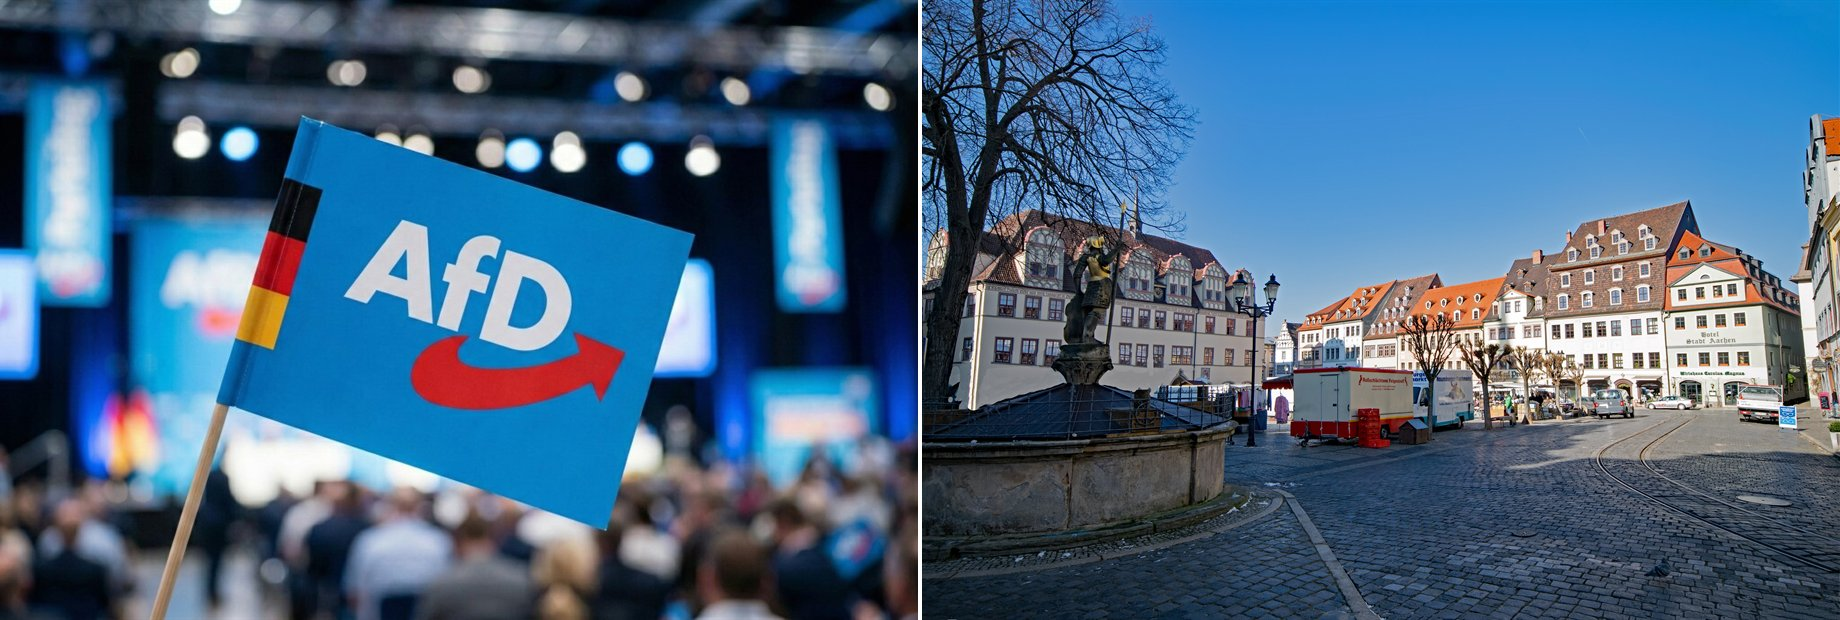
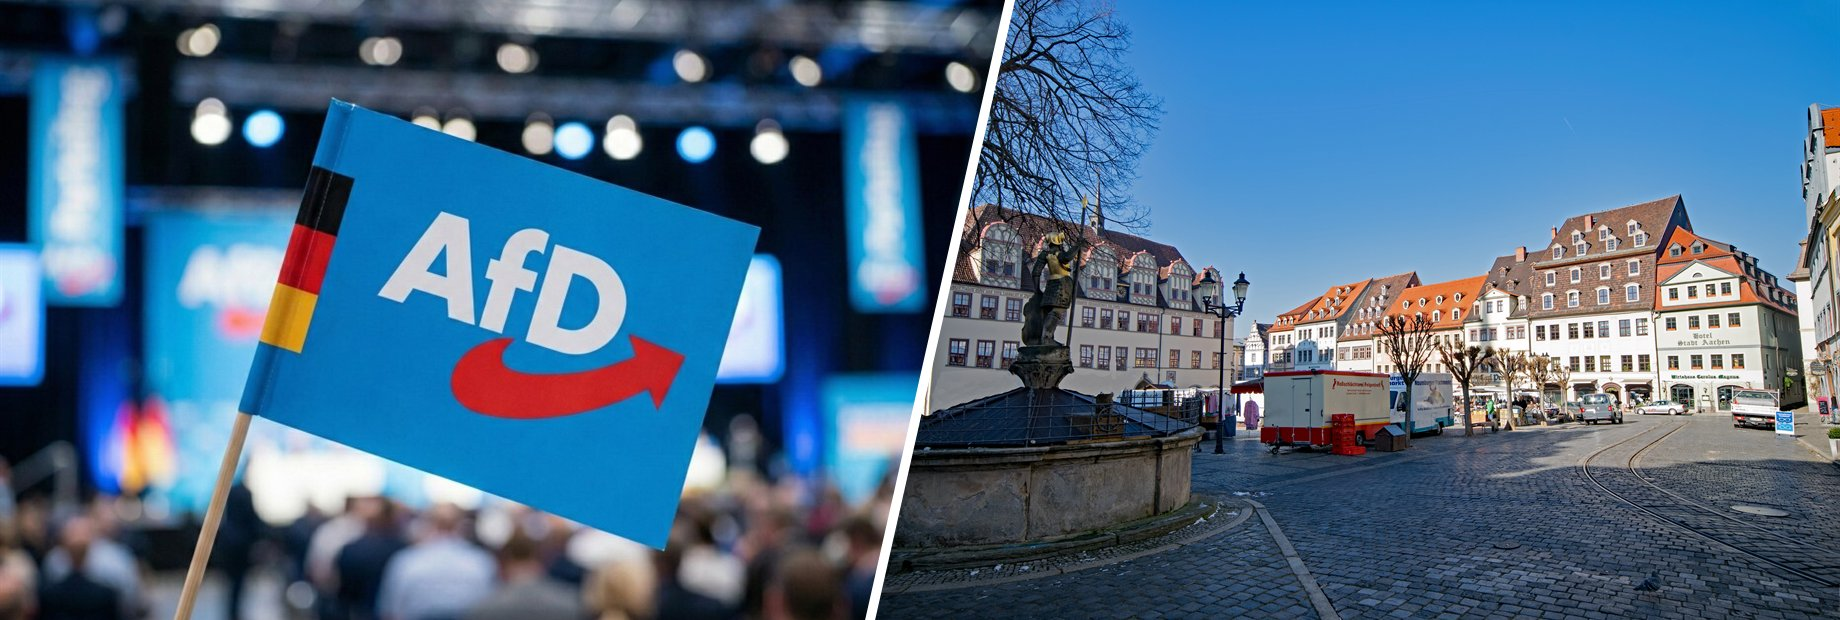
Hero header: diagonal photo split, title overlay, caption on image

diff --git a/assets/css/main.scss b/assets/css/main.scss
@@ -171,6 +171,58 @@
   margin-bottom: 20px;
 }
 
+/* Hero: Titel und Quellenzeile liegen auf dem Header-Bild */
+.ltw-article figure.ltw-hero {
+  position: relative;
+}
+
+.ltw-article figure.ltw-hero .ltw-hero-shade {
+  position: absolute;
+  inset: 0;
+  border-radius: 10px;
+  background: linear-gradient(to top,
+    rgba(0, 0, 0, 0.66) 0%, rgba(0, 0, 0, 0.25) 40%, rgba(0, 0, 0, 0) 62%);
+  pointer-events: none;
+}
+
+.ltw-article figure.ltw-hero h1.ltw-hero-title {
+  position: absolute;
+  left: 30px;
+  right: 30px;
+  bottom: 30px;
+  margin: 0;
+  color: #fff;
+  font-size: 30px;
+  font-weight: 700;
+  line-height: 1.25;
+  text-align: left;
+  text-shadow: 0 2px 10px rgba(0, 0, 0, 0.65);
+  pointer-events: none;
+}
+
+.ltw-article figure.ltw-hero figcaption {
+  position: absolute;
+  right: 16px;
+  bottom: 8px;
+  margin: 0;
+  color: rgba(255, 255, 255, 0.72);
+  font-size: 0.68em;
+  text-shadow: 0 1px 4px rgba(0, 0, 0, 0.8);
+}
+
+.ltw-article figure.ltw-hero figcaption a {
+  color: rgba(255, 255, 255, 0.85);
+}
+
+@media (max-width: 700px) {
+  .ltw-article figure.ltw-hero h1.ltw-hero-title {
+    font-size: 19px;
+    left: 16px;
+    right: 16px;
+    bottom: 24px;
+  }
+}
+
 /* Header-Banner: bricht aus der Textspalte aus, ohne Karten-Rahmen */
 .ltw-article figure.ltw-header {
   width: min(1200px, 94vw);

diff --git a/_pages/ltw2026.md b/_pages/ltw2026.md
@@ -7,12 +7,12 @@ author_profile: true
 
 <div class="ltw-article" markdown="1">
 
-<figure class="ltw-header">
+<figure class="ltw-header ltw-hero">
   <img src="/images/ltw26_header.jpg" alt="Bildmontage: AfD-Fähnchen auf einem Parteitag (links), Marktplatz von Naumburg an der Saale (rechts)">
+  <div class="ltw-hero-shade"></div>
+  <h1 class="ltw-hero-title">Landtagswahl Sachsen-Anhalt 2026:<br>Wo die AfD stark ist – und warum</h1>
   <figcaption>Fotos: <a href="https://www.ccnull.de/foto/afd-flagge-auf-parteitag-geschwenkt-alternative-fur-deutschland-symbolbild/1129246">Marco Verch/ccnull.de</a> (<a href="https://creativecommons.org/licenses/by/2.0/deed.de">CC BY 2.0</a>, zugeschnitten) · <a href="https://pxhere.com/de/photo/1182501">pxhere.com</a> (CC0)</figcaption>
 </figure>
-
-<h1 class="blog-page-title">Landtagswahl Sachsen-Anhalt 2026:<br>Wo die AfD stark ist – und warum</h1>
 
 <div class="ltw-disclaimer">
 Entwurf / Testversion — Text und Zahlen basieren teils auf der Landtagswahl 2021 und einer Umfrage-Simulation; nach der Wahl am 6. September 2026 werden sie durch die amtlichen Ergebnisse ersetzt. Dies ist die Textfassung eines <a href="https://bsky.app/profile/juliusk.bsky.social">Threads auf Bluesky</a>. An English version is available <a href="/ltw2026-en/">here</a>.

diff --git a/_pages/ltw2026_en.md b/_pages/ltw2026_en.md
@@ -7,12 +7,12 @@ author_profile: true
 
 <div class="ltw-article" markdown="1">
 
-<figure class="ltw-header">
+<figure class="ltw-header ltw-hero">
   <img src="/images/ltw26_header.jpg" alt="Photo montage: AfD flag at a party convention (left), market square of Naumburg an der Saale (right)">
+  <div class="ltw-hero-shade"></div>
+  <h1 class="ltw-hero-title">Saxony-Anhalt's 2026 State Election:<br>Where the AfD Is Strong – and Why</h1>
   <figcaption>Photos: <a href="https://www.ccnull.de/foto/afd-flagge-auf-parteitag-geschwenkt-alternative-fur-deutschland-symbolbild/1129246">Marco Verch/ccnull.de</a> (<a href="https://creativecommons.org/licenses/by/2.0/">CC BY 2.0</a>, cropped) · <a href="https://pxhere.com/en/photo/1182501">pxhere.com</a> (CC0)</figcaption>
 </figure>
-
-<h1 class="blog-page-title">Saxony-Anhalt's 2026 State Election:<br>Where the AfD Is Strong – and Why</h1>
 
 <div class="ltw-disclaimer">
 Draft / test version — text and figures are partly based on the 2021 state election and a poll-based simulation; they will be replaced with the official results after the election on September 6, 2026. This is the text version of a <a href="https://bsky.app/profile/juliusk.bsky.social">thread on Bluesky</a>. A German version is available <a href="/ltw2026/">here</a>.
